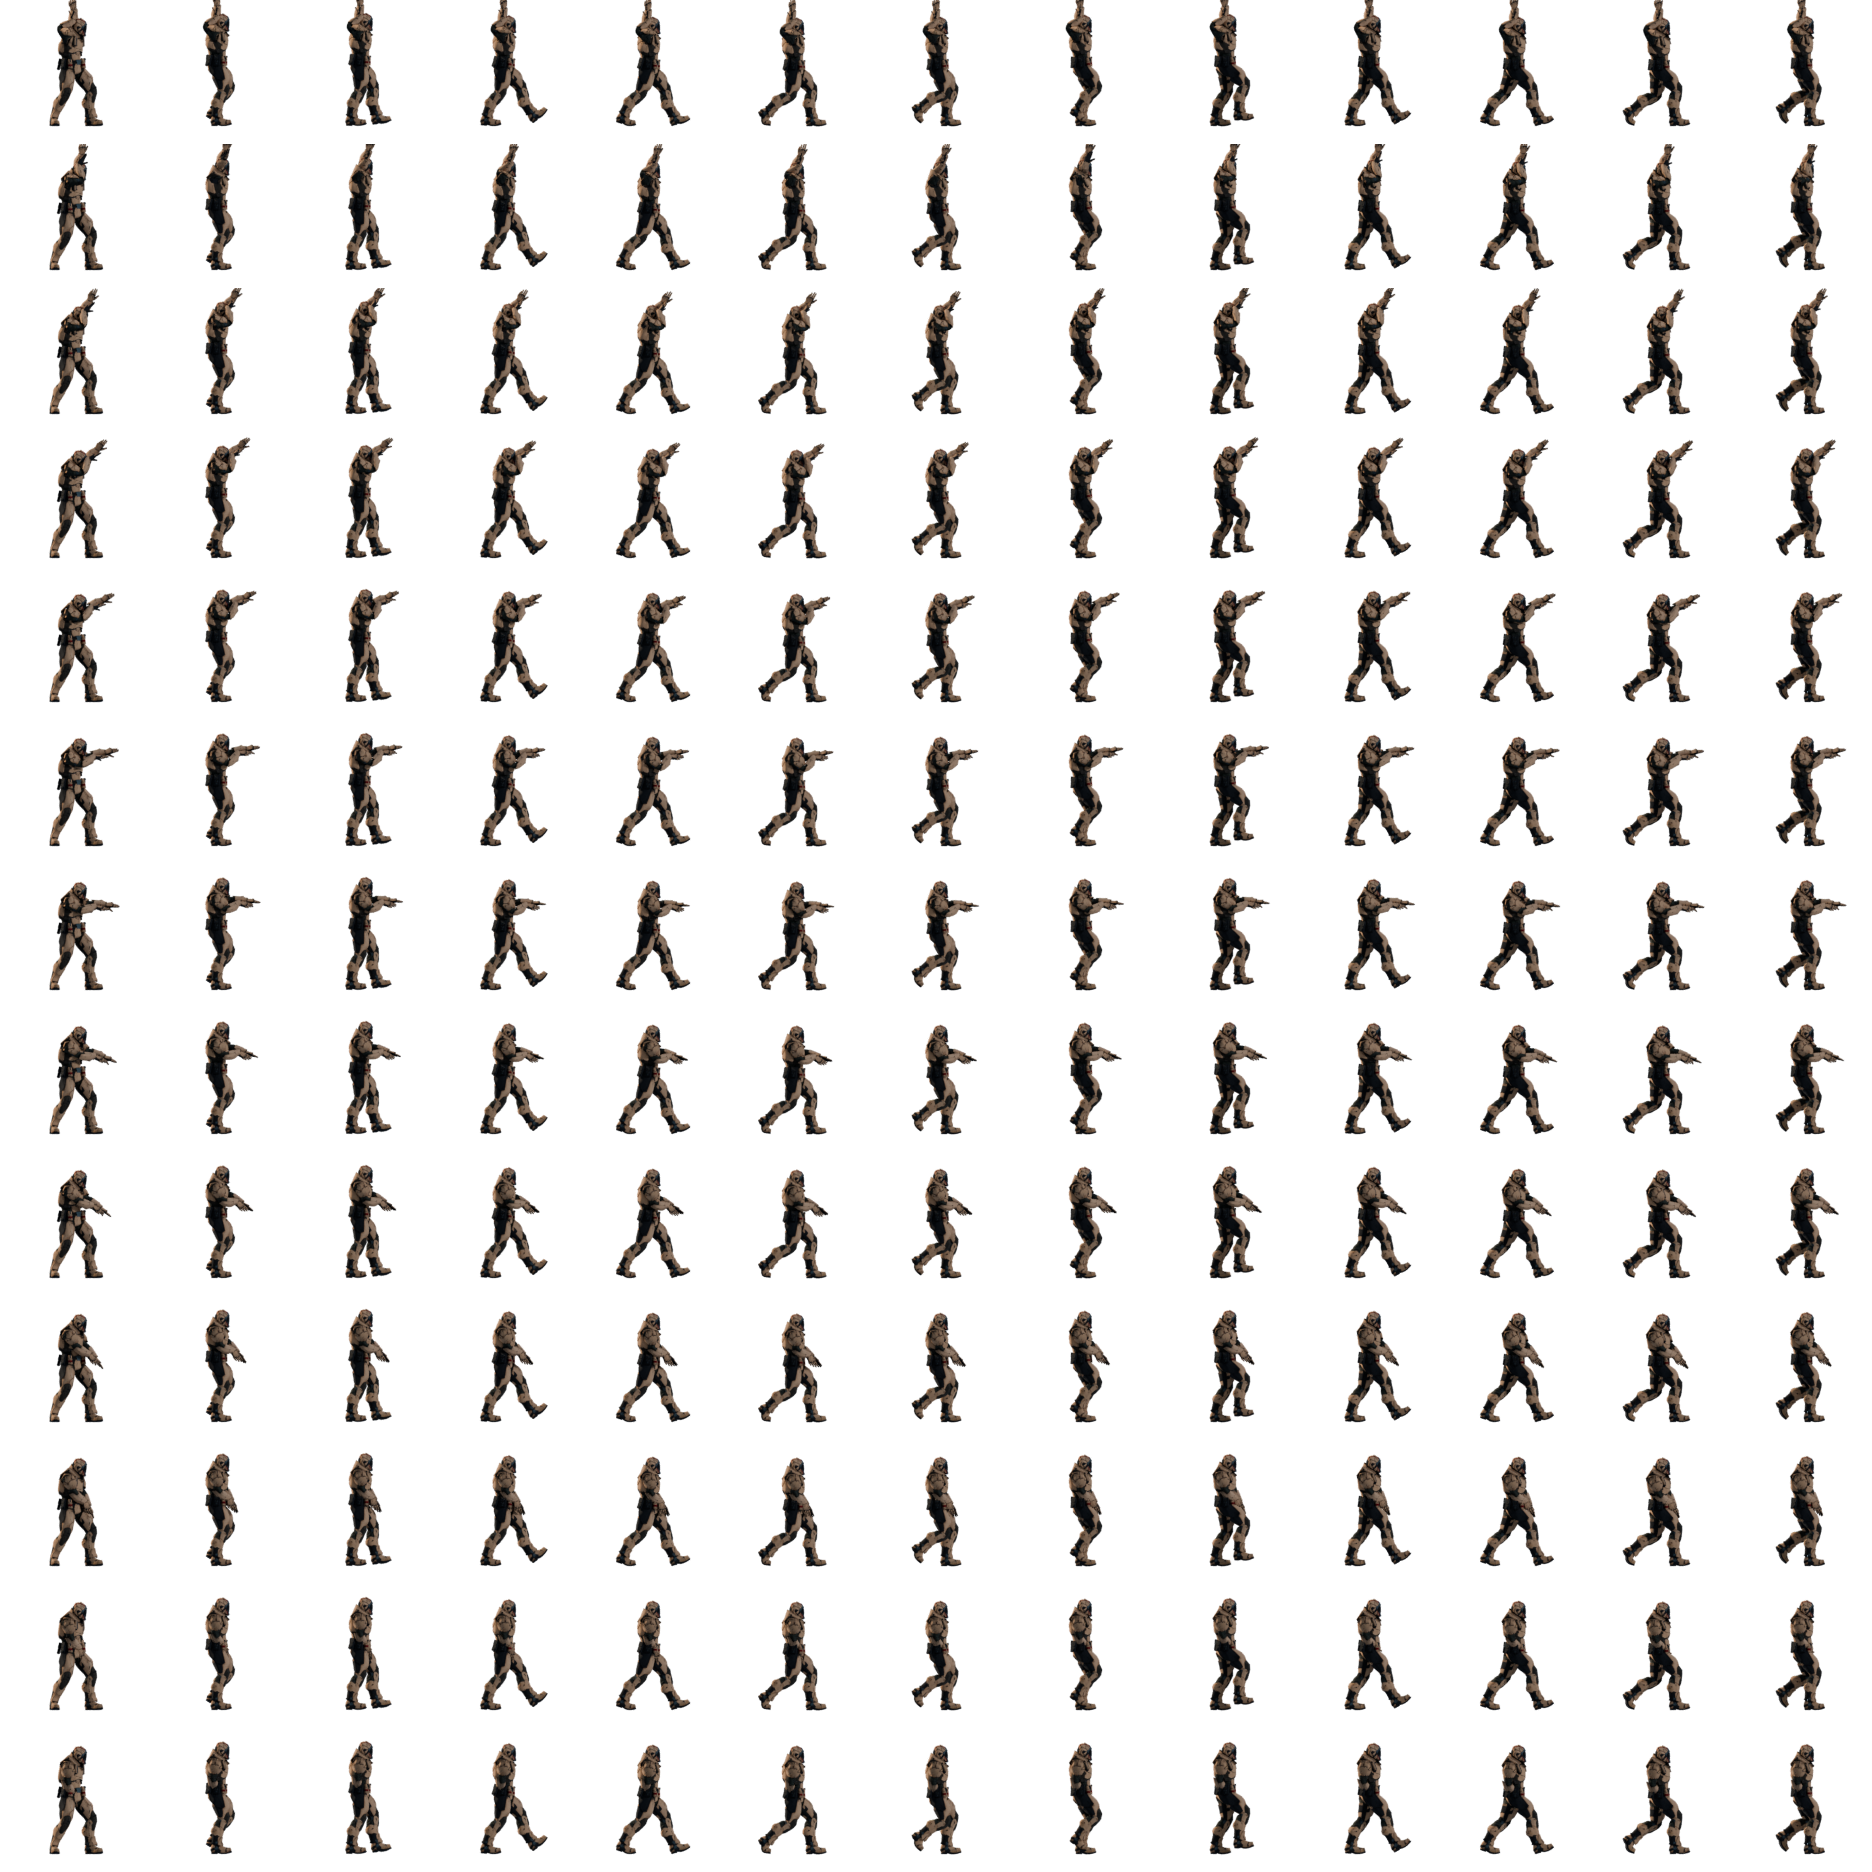
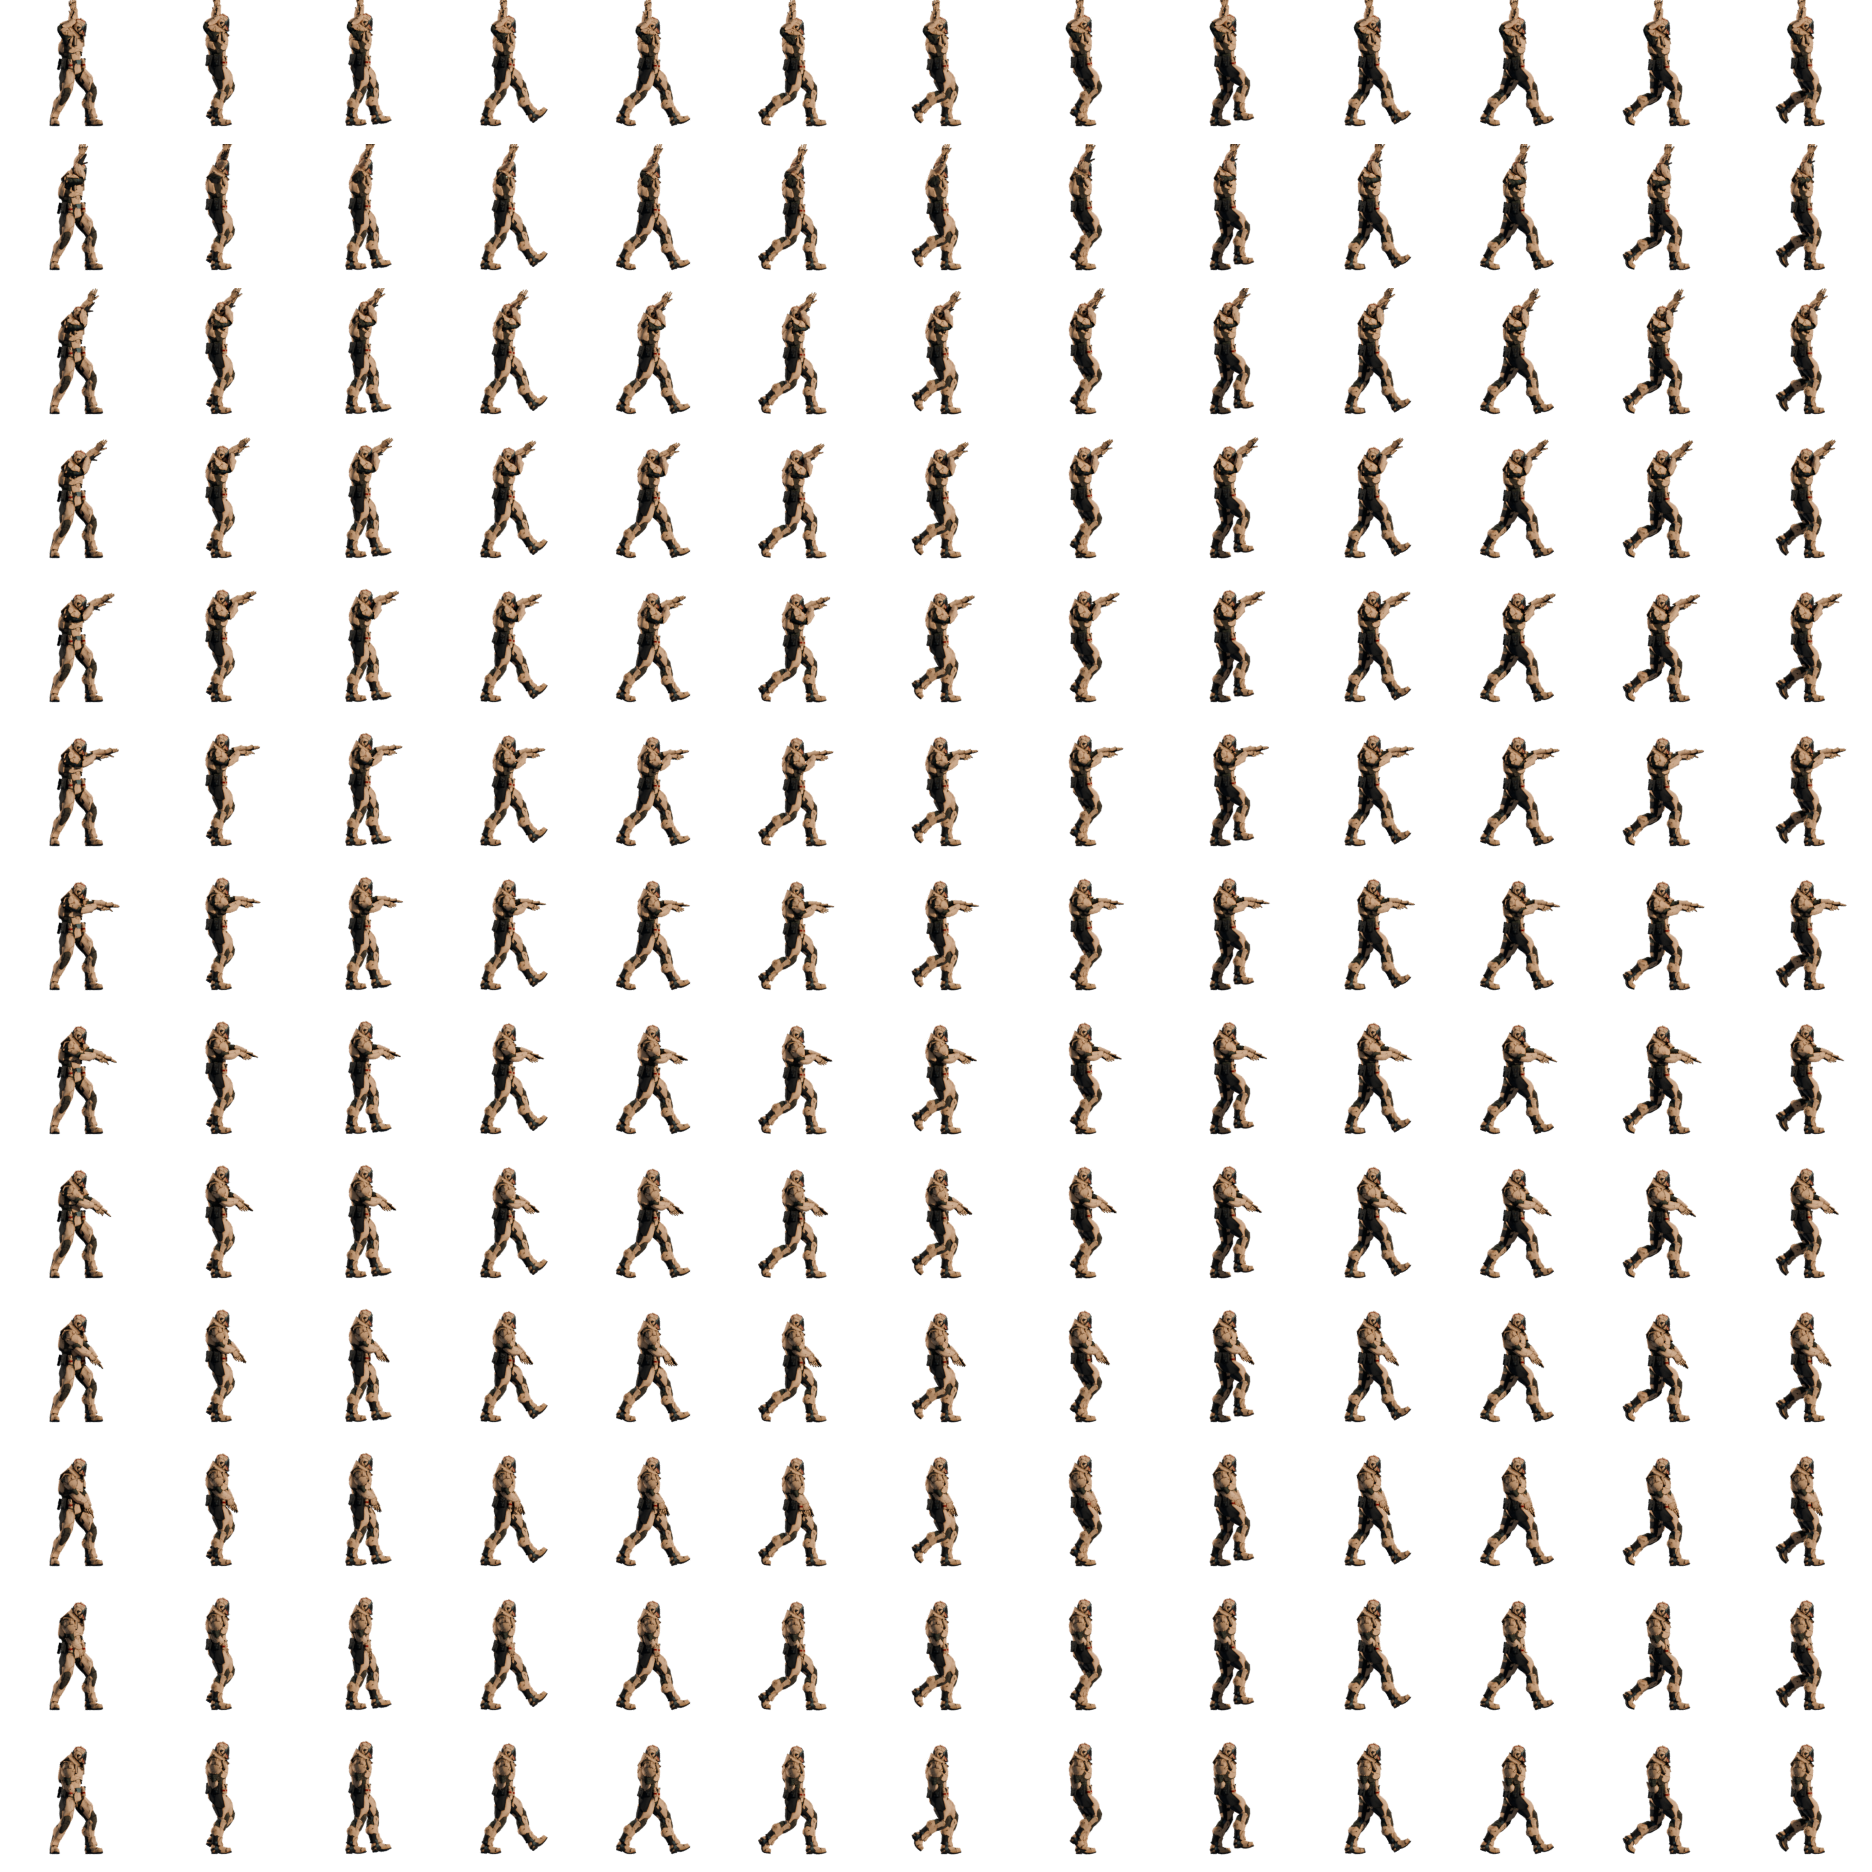
Soldiers: strong warm rim light so silhouettes read on any background; snow/sand caps with drifts (thickness 50-180%)
Claude-Session: https://claude.ai/code/session_01JvXrYdG1XCH4i3GESsQzbh

diff --git a/js/terrain_visual.js b/js/terrain_visual.js
@@ -699,7 +699,7 @@ function buildTerrainVisual(T, theme, map, raster, waterY) {
       const occ = (OCC[oyR + ox0] * (1 - fx) + OCC[oyR + ox1] * fx) * (1 - fy) + (OCC[oyR1 + ox0] * (1 - fx) + OCC[oyR1 + ox1] * fx) * fy;
       if (isSolid) {
         const mt0 = mat[i] || 1, mt = mt0 === 1 && S.rockDirt ? 2 : mt0; const dd = D[i], d = dd / 3, t = TD[i];
-        const capT = capMat[mt] ? capThick * (0.78 + 0.44 * capN[x]) + capS[x] * 2.6 + (t2[ty2 | ((x >> 1) & 255)] - 0.5) * 4 + fringe[x] : 0;
+        const capT = capMat[mt] ? capThick * (S.grassy ? 0.78 + 0.44 * capN[x] : 0.5 + capN[x] * capN[x] * 1.3) + capS[x] * 2.6 + (t2[ty2 | ((x >> 1) & 255)] - 0.5) * 4 + fringe[x] : 0;
         shadeMaterial(S, mt, x, y, t, capT, d, infos[sid[i]] || infos[0], o, false);
         let r = o.r, g = o.g, bl = o.b;
         // объём: нормаль из размытой высоты

diff --git a/dev/blender/make_soldier.py b/dev/blender/make_soldier.py
@@ -51,7 +51,7 @@ def sun(energy, col, elev, az):
     v = Vector((math.cos(e) * math.cos(a), math.cos(e) * math.sin(a), -math.sin(e)))
     o.rotation_euler = v.to_track_quat('-Z', 'Y').to_euler()
 sun(4.2, (1.0, 0.86, 0.68), 32, -30)      # тёплое солнце слева-спереди сверху
-sun(1.6, (0.7, 0.8, 1.0), 20, 150)        # холодный контровой свет справа-сзади: отделяет силуэт от фона
+sun(5.0, (1.0, 0.88, 0.69), 18, 150)       # сильный тёплый контровой свет сзади: светлый контур по силуэту — боец читается на любом фоне
 
 ARM_BONES = [b.name for b in arm.data.bones if any(k in b.name for k in ('Shoulder', 'Arm', 'Hand'))]
 pb = arm.pose.bones
